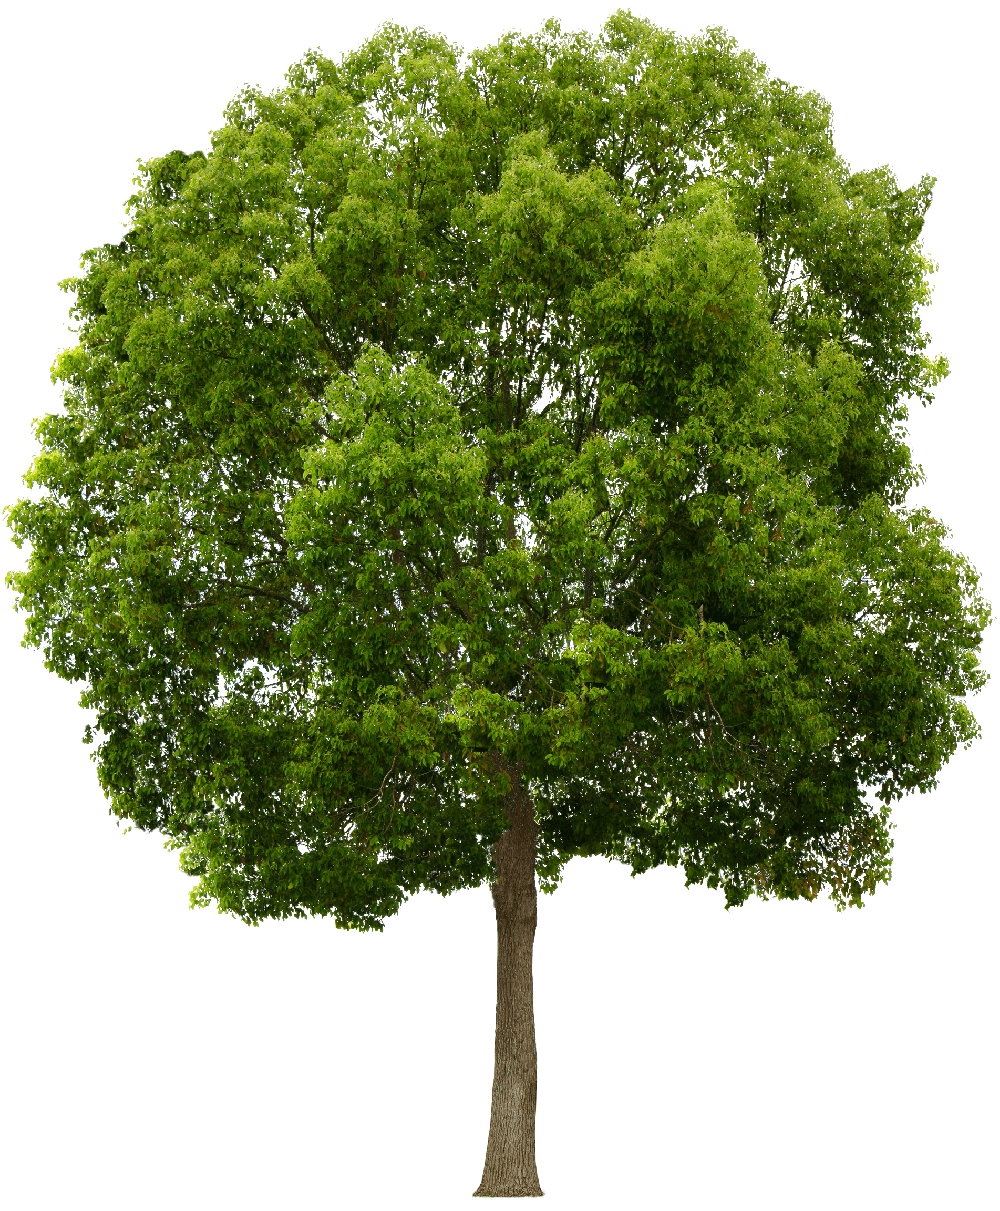
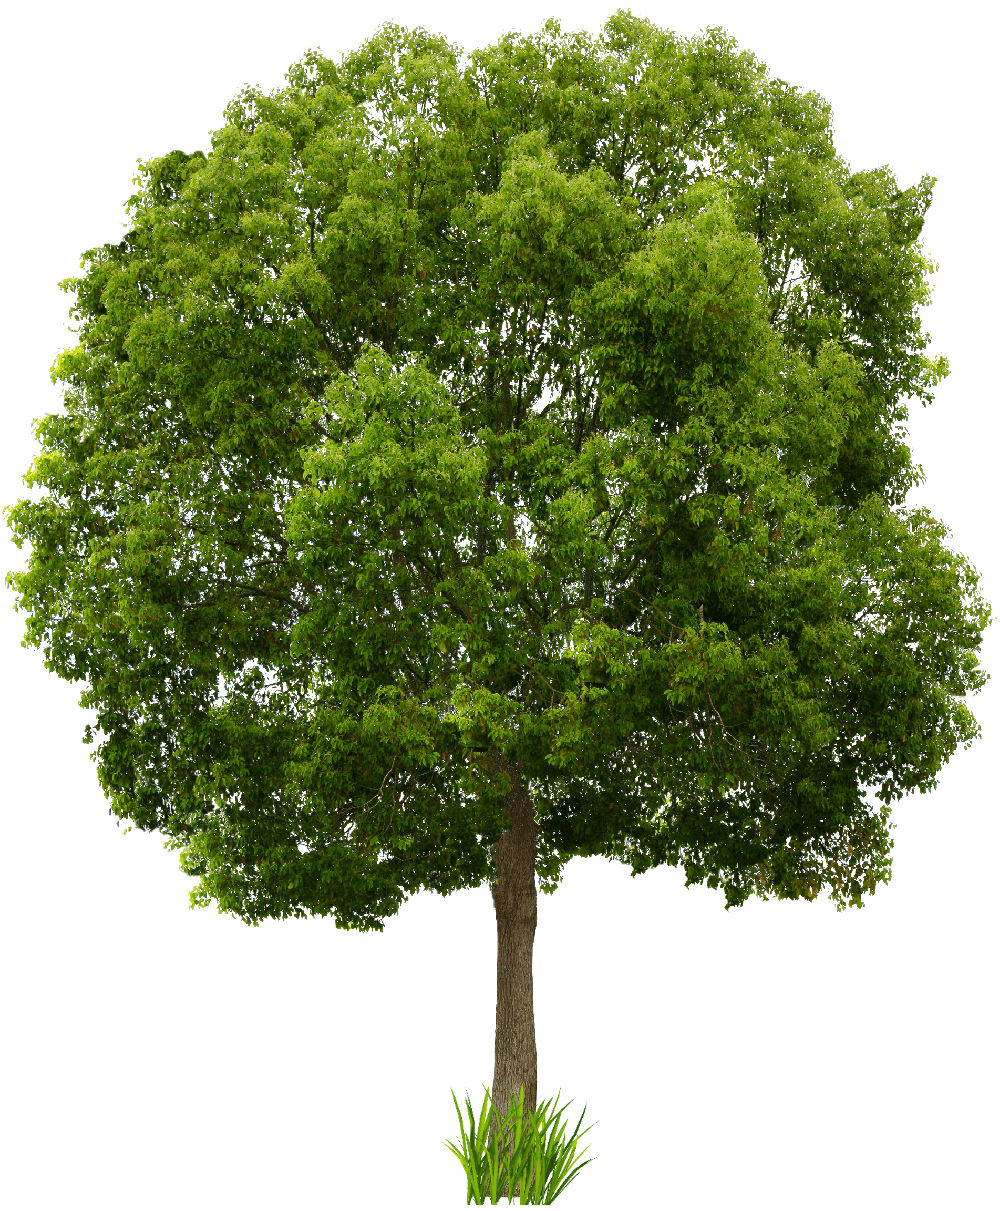
textures, objects, etc

Changed region(s): [[0.434, 0.886, 0.589, 1.0]]

diff --git a/style.css b/style.css
@@ -18,6 +18,11 @@ html, body {
   background: #000;
 }
 
+body {
+  background: url(sky.jpg);
+  background-size: cover;
+}
+
 #perspective {
   width: 0;
   height: 0;
@@ -35,9 +40,21 @@ html, body {
   width: 210vmin;
   height: 200vmin;
   border-radius: 5vmin;
-  transform:  rotateX(30deg) translateX(-100vmin) translateY(-100vmin) translateZ(40vmin);
+  transform: rotateX(30deg) translateX(-100vmin) translateY(-100vmin) translateZ(40vmin);
   transition: .2s;
-  background: radial-gradient(circle, #000 5vmin, #725d11 12vmin, #5F9D3F 15vmin, #034301 200vmin);
+  background: /*radial-gradient(circle, #000 5vmin, #725d11 12vmin, transparent 15vmin) no-repeat center center,*/ url(grass.jpg); /* radial-gradient(circle, #000 5vmin, #725d11 12vmin, #5F9D3F 15vmin, #034301 200vmin); */
+  background-size: 70vmin;
+}
+
+#scenedepth {
+  position: absolute;
+  left: 3vmin;
+  bottom: 0;
+  width: 207vmin;
+  height: 300vmin;
+  transform: rotateX(97deg) translateY(-169vmin) translateZ(-146vmin);
+  background: linear-gradient(#fff 0%, transparent 60%), url(terre.jpg);
+  background-size: 70vmin;
 }
 
 #snake {
@@ -108,15 +125,25 @@ html, body {
   position: fixed;
   width: 100%;
   height: 100%;
-  background: rgba(0,0,0,.25);
+  background: rgba(0,0,0,.2);
   transform: translateX(14%) translateY(14%) translateZ(-.25vh);
 }
+
+.snakegrass {
+  position: fixed;
+  width: 10vmin;
+  height: 6vmin;
+  background: url(grassblades.png);
+  background-size: 10vmin 6vmin;
+  transform: translateX(-1vmin) translateY(7vmin) translateZ(4vmin) rotateX(-70deg);
+  transition: .15s;
+  }
 
 .snakecontrol {
   width: 25vmin;
   height: 25vmin;
   background: #0af;
-  opacity: .1;
+  opacity: .0;
   position: fixed;
   transform: rotateZ(45deg);
 }
@@ -167,11 +194,9 @@ html, body {
   margin-left: 9vmin;
 }
 
-
-
 #snakecubemove0 {
-  width: 8.5vmin;
-  height: 8.5vmin;
+  xwidth: 8.5vmin;
+  xheight: 8.5vmin;
 }
 
 .cube.snakecube {
@@ -196,7 +221,8 @@ html, body {
 .cube.snakecube > div {
   box-shadow: 0 0 0 .2vmin #000 inset;
   text-align: center;
-  background: #b80;
+  background: /*url(snake.jpg); */ #b80;
+  background-size: 500%;
 }
 
 .cube.snakecube .u {
@@ -234,8 +260,8 @@ html, body {
   width: 10.1vmin;
   height: 10.1vmin;
   position: absolute;
-  background: #fff;
-  border: .4vmin solid #000 ;
+  border: .4vmin solid #000;
+  background-size: 100%;
 }
 
 .cell.grass {
@@ -243,8 +269,14 @@ html, body {
   border: none;
 }
 
+.cell.white {
+  background: #fff;
+  background-size: 100%;
+}
+
 .cell.black {
   background: #000;
+  background-size: 100%;
 }
 
 .cell.blue {
@@ -288,22 +320,55 @@ button {
   width: 50vmin;
   height: 60vmin;
   transform-origin: center bottom;
-  transform:  translateY(6vmin) rotateX(-65deg);
-  background: url(tree.png) no-repeat;
-  background-size: 100%;
+  transform: translateY(6vmin) rotateX(-65deg);
   position: absolute;
   bottom: 100%;
   left: -20vh;
   pointer-events: none;
 }
 
-.treeshadow {
+.stone {
+  position: absolute;
+  width: 8vmin;
+  height: 6vmin;
+  bottom: 100%;
+  left: 0;
+  background: url(stone.png);
+  background-size: 100%;
+}
+
+.treecontent {
   width: 50vmin;
   height: 60vmin;
   transform-origin: center bottom;
-  transform: scaleX(-1) translateY(6vmin) rotateZ(318deg);
+  background: url(tree.png) no-repeat;
+  background-size: 100%;
+  position: absolute;
+  top: 0;
+  left: 0;
+  pointer-events: none;
+  transition: .15s;
+}
+
+.grass {
+  width: 10vmin;
+  height: 10vmin;
+  transform-origin: center bottom;
+  transform: rotateX(-50deg);
+  background: url(grassblades.png) repeat-x;
+  background-size: 30vmin 10vmin;
+  position: absolute;
+  bottom: 100%;
+  pointer-events: none;
+}
+
+.treeshadow {
+  width: 50vmin;
+  height: 55vmin;
+  transform-origin: center bottom;
+  transform: scaleX(-1) translateY(6vmin) rotateZ(235deg);
   background: url(treeshadow.png) no-repeat;
-  opacity: .5;
+  opacity: .2;
   background-size: 100%;
   position: absolute;
   bottom: 100%;

diff --git a/gameplay.js b/gameplay.js
@@ -108,7 +108,7 @@ mousemove = (el) => {
     
     movesnake();
     lock = 1;
-    setTimeout("lock = 0", inbounds ? 300 : 150);
+    setTimeout("lock = 0", inbounds[0] ? 300 : 150);
   }
 }
 
@@ -120,40 +120,56 @@ movesnake = () => {
   
   clearpuzzle();
   
+  inbounds = [];
+  currentpuzzle = null;
+    
+  // Update inbounds status for each cube, and currentpuzzle
+  for(i in levels[currentroom].puzzles){
+    for(j in snakepos){
+      inbounds[j] = 0;
+      puzzle = levels[currentroom].puzzles[i];
+      if(snakepos[j][0] >= puzzle.x && snakepos[j][0] < puzzle.x + puzzle.size
+      && snakepos[j][1] >= puzzle.y && snakepos[j][1] < puzzle.y + puzzle.size){
+        inbounds[j] = 1;
+        if(j == 0){
+          currentpuzzle = puzzle;
+        }
+      }
+    }
+  }
+  
   // Check if cube is in bounds, if yes, color the cell in blue or red
   for(i = 0; i < snakelength; i++){
     window["snakecubemove" + i].style.transform = "translateX(" + (snakepos[i][0] * 10 + 1) + "vmin) translateY(" + (snakepos[i][1] * 10 + 1) + "vmin) translateZ(" + (snakepos[i][2] * 10 + .5) + "vmin)";
     
     window["snakecube" + i].style.transform = "rotateZ(" + (snakeangles[i]) + "deg)";
-  }
-  
-  inbounds = 0;
-  currentpuzzle = null;
     
-  for(i in levels[currentroom].puzzles){
-    puzzle = levels[currentroom].puzzles[i];
-    if(snakepos[0][0] >= puzzle.x && snakepos[0][0] < puzzle.x + puzzle.size
-    && snakepos[0][1] >= puzzle.y && snakepos[0][1] < puzzle.y + puzzle.size
-    && !puzzle.solved){
-      inbounds = 1;
-      currentpuzzle = puzzle;
+    if(snakepos[i][2] == 0){
+      window["snakegrass" + i].style.backgroundPosition = -(snakepos[i][0] * 10 + (snakepos[i][1] * 100)) + "vmin bottom";
+      if(inbounds[i]){
+        window["snakegrass" + i].style.opacity = 0;
+      }
+      else {
+        window["snakegrass" + i].style.opacity = 1;
+      }
     }
   }
   
-  if(inbounds) {
+  for(i in levels[currentroom].trees){
+    window["treecontent" + i].style.transform = `rotateY(${Math.sin(snakepos[i][0] / 30)}rad)`;
+  }
+  
+  if(inbounds[0] && !currentpuzzle.solved) {
     scene.classList.add("inbounds");
     scene.style.transition = ".75s";
     scene.style.transform = "rotateX(10deg) translateX(" + (-(currentpuzzle.x + currentpuzzle.size / 2) * 10 + 1) + "vmin) translateY(" + (-(currentpuzzle.y + currentpuzzle.size / 2) * 10 + 1) + "vmin) translateZ(" + ((currentpuzzle.size * .8) * 10) + "vmin)";
+    checkpuzzle();
   }
   
-  else {
+  else if(!inbounds[0] || currentpuzzle.solved){
     scene.classList.remove("inbounds");
     setTimeout('scene.style.transition = ""', 750);
     scene.style.transform = "rotateX(30deg) translateX(" + (-snakepos[0][0] * 10 + 1) + "vmin) translateY(" + (-snakepos[0][1] * 10 + 1) + "vmin) translateZ(40vmin)";
-  }
-  
-  if(inbounds){
-    checkpuzzle();
   }
 }
 

diff --git a/render.js b/render.js
@@ -1,7 +1,10 @@
 render = () => {
 
   scene.innerHTML =
-`<div id=puzzles></div>
+`<div id=scenedepth></div>
+<div id=puzzles></div>
+<div id=grass></div>
+<div id=stones></div>
 <div id=trees></div>
 <div id=snake></div>`;
 
@@ -9,6 +12,7 @@ render = () => {
     snake.innerHTML +=
 `<div id="snakecubemove${i}" class="snakecubemove">
   <div class="snakeshadow"></div>
+  <div id="snakegrass${i}" class="snakegrass"></div>
   ${i?'':'<div id="control_f" class="snakecontrol front"></div>'}
   ${i?'':'<div id="control_b" class="snakecontrol back"></div>'}
   ${i?'':'<div id="control_l" class="snakecontrol left"></div>'}
@@ -46,13 +50,19 @@ render = () => {
   
   for(j in levels[currentroom].trees){
     tree = levels[currentroom].trees[j];
-    window["trees"].innerHTML +=
-    `<div class="tree" style="margin-left:${tree[0] * 10}vmin;margin-bottom:-${tree[1] * 10}vmin"></div>;
+    trees.innerHTML +=
+    `<div id="tree${j}" class="tree" style="margin-left:${tree[0] * 10}vmin;margin-bottom:-${tree[1] * 10}vmin"><div id="treecontent${j}" class="treecontent"></div></div>;
     <div class="treeshadow" style="margin-left:${tree[0] * 10}vmin;margin-bottom:-${tree[1] * 10}vmin"></div>`;
   }
   
-  scene.style.width = levels[currentroom].width * 10 + "vmin";
-  scene.style.height = levels[currentroom].height * 10 + "vmin";
+  for(j in levels[currentroom].stones){
+    stone = levels[currentroom].stones[j];
+    stones.innerHTML +=
+    `<div class="stone" style="margin-left:${stone[0] * 10}vmin;margin-bottom:-${stone[1] * 10}vmin"></div>;`;
+  }
+  
+  scene.style.width = levels[currentroom].width * 10 + 2 + "vmin";
+  scene.style.height = levels[currentroom].height * 10 + 2 + "vmin";
 
   movesnake();
   

diff --git a/levels.js b/levels.js
@@ -17,18 +17,37 @@ levels = [
         ground: "00000"+"00110"+"01100"+"01110"+"00000",
       },
       {
-        x: 14,
+        x: 13,
         y: 3,
         size: 6,
         wrap: 0,
         wall: "",
         ground: "000000"+"000000"+"001100"+"011110"+"010000"+"000000",
       },
+      {
+        x: 13,
+        y: 11,
+        size: 6,
+        wrap: 0,
+        wall: "",
+        ground: "000000"
+               +"000000"
+               +"001100"
+               +"011100"
+               +"001100"
+               +"000000",
+      },
 
     ],
     
     trees: [
       [3,15],
+    ],
+    
+    stones: [
+      [5,10],
+      [10,17],
+      [2,14],
     ]
     
     

diff --git a/init.js b/init.js
@@ -21,7 +21,7 @@ cell = null;
 
 
 snakepos = [[10,10,-1],[10,10,-1],[10,10,-1],[10,10,-1],[10,10,-1],[10,10,-1],[10,10,-1]];
-inbounds = 0;
+inbounds = [0];
 snakeangles = [0,0,0,0,0,0,0];
 headangle = 0;
 

diff --git a/index.html b/index.html
@@ -11,9 +11,7 @@
 <body id=b>
 
 <div id=perspective>
-  <div id=scene>
-    
-  </div>
+  <div id=scene></div>
 </div>
 
 <script src="init.js"></script>
